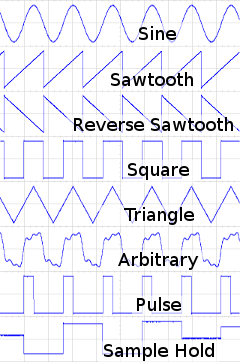
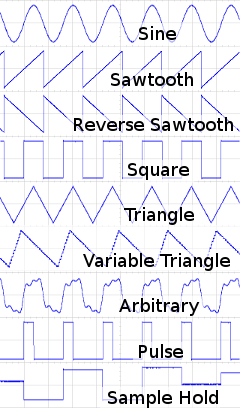
Add variable triangle waveform

diff --git a/gui/index.html b/gui/index.html
@@ -2015,6 +2015,7 @@ The actual packets are taken
 		<li><span class=literal>WAVEFORM_SAWTOOTH_REVERSE</span></li>
 		<li><span class=literal>WAVEFORM_SQUARE</span></li>
 		<li><span class=literal>WAVEFORM_TRIANGLE</span></li>
+		<li><span class=literal>WAVEFORM_TRIANGLE_VARIABLE</span></li>
 		<li><span class=literal>WAVEFORM_ARBITRARY</span></li>
 		<li><span class=literal>WAVEFORM_PULSE</span></li>
 		<li><span class=literal>WAVEFORM_SAMPLE_HOLD</span></li>

diff --git a/synth_waveform.cpp b/synth_waveform.cpp
@@ -124,6 +124,26 @@ void AudioSynthWaveform::update(void)
 		}
 		break;
 
+	case WAVEFORM_TRIANGLE_VARIABLE:
+		do {
+		uint32_t rise = 0xFFFFFFFF / (pulse_width >> 16);
+		uint32_t fall = 0xFFFFFFFF / (0xFFFF - (pulse_width >> 16));
+		for (i=0; i < AUDIO_BLOCK_SAMPLES; i++) {
+			if (ph < pulse_width/2) {
+				uint32_t n = (ph >> 16) * rise;
+				*bp++ = ((n >> 16) * magnitude) >> 16;
+			} else if (ph < 0xFFFFFFFF - pulse_width/2) {
+				uint32_t n = 0x7FFFFFFF - (((ph - pulse_width/2) >> 16) * fall);
+				*bp++ = ((n >> 16) * magnitude) >> 16;
+			} else {
+				uint32_t n = ((ph + pulse_width/2) >> 16) * rise + 0x80000000;
+				*bp++ = ((n >> 16) * magnitude) >> 16;
+			}
+			ph += inc;
+		}
+		} while (0);
+		break;
+
 	case WAVEFORM_PULSE:
 		magnitude15 = signed_saturate_rshift(magnitude, 16, 1);
 		for (i=0; i < AUDIO_BLOCK_SAMPLES; i++) {

diff --git a/synth_waveform.h b/synth_waveform.h
@@ -37,15 +37,15 @@ extern const int16_t AudioWaveformSine[257];
 }
 
 
-#define WAVEFORM_SINE      0
-#define WAVEFORM_SAWTOOTH  1
-#define WAVEFORM_SQUARE    2
-#define WAVEFORM_TRIANGLE  3
-#define WAVEFORM_ARBITRARY 4
-#define WAVEFORM_PULSE     5
-#define WAVEFORM_SAWTOOTH_REVERSE 6
-#define WAVEFORM_SAMPLE_HOLD 7
-
+#define WAVEFORM_SINE              0
+#define WAVEFORM_SAWTOOTH          1
+#define WAVEFORM_SQUARE            2
+#define WAVEFORM_TRIANGLE          3
+#define WAVEFORM_ARBITRARY         4
+#define WAVEFORM_PULSE             5
+#define WAVEFORM_SAWTOOTH_REVERSE  6
+#define WAVEFORM_SAMPLE_HOLD       7
+#define WAVEFORM_TRIANGLE_VARIABLE 8
 
 class AudioSynthWaveform : public AudioStream
 {
